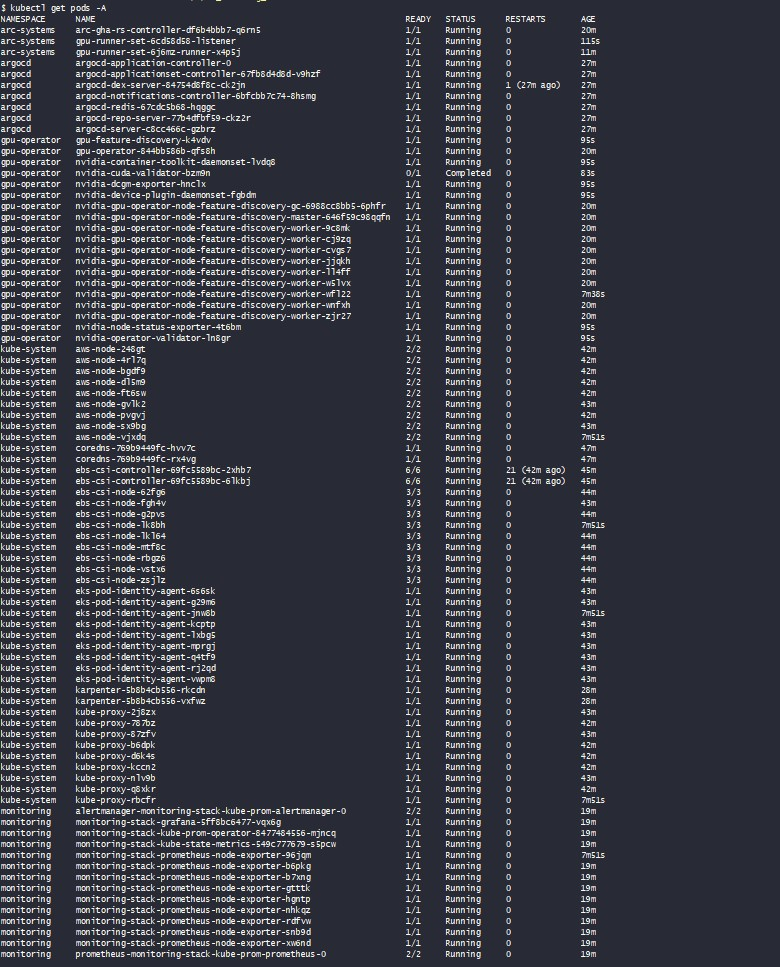
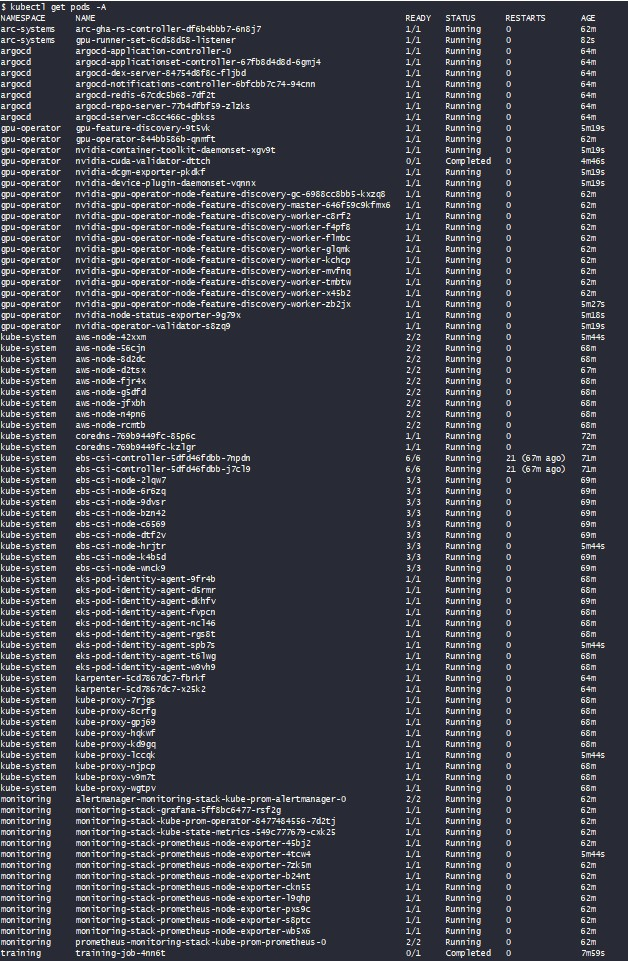
docs: updated images and README

Changed region(s): [[0.0, 0.0, 0.9682, 0.999]]

diff --git a/README.md b/README.md
@@ -155,6 +155,10 @@ The `images/` folder contains evidence that the platform works end‑to‑end:
 
 - **`pods-running.png`** – All essential pods (ArgoCD, Karpenter, Prometheus, GPU Operator, ARC) are running.
 
+- **`gpu-active-metric.png`** – Prometheus shows the custom `gpu_active` metric exposed by the training pod, confirming GPU availability and custom instrumentation.
+
+- **`servicemonitor-targets.png`** – Prometheus Target Health page displays the `training-job-monitor` ServiceMonitor endpoint as `UP`, verifying that Prometheus scrapes the training pod's metrics on port 8080.
+
 - **`s3-result.png`** – The training job uploaded `result.txt` to S3, proving GPU execution and storage integration.
 
 - **`prometheus-alerts.png`** – Prometheus UI displays the custom `GPUMissing` alert rule, confirming observability configuration.
